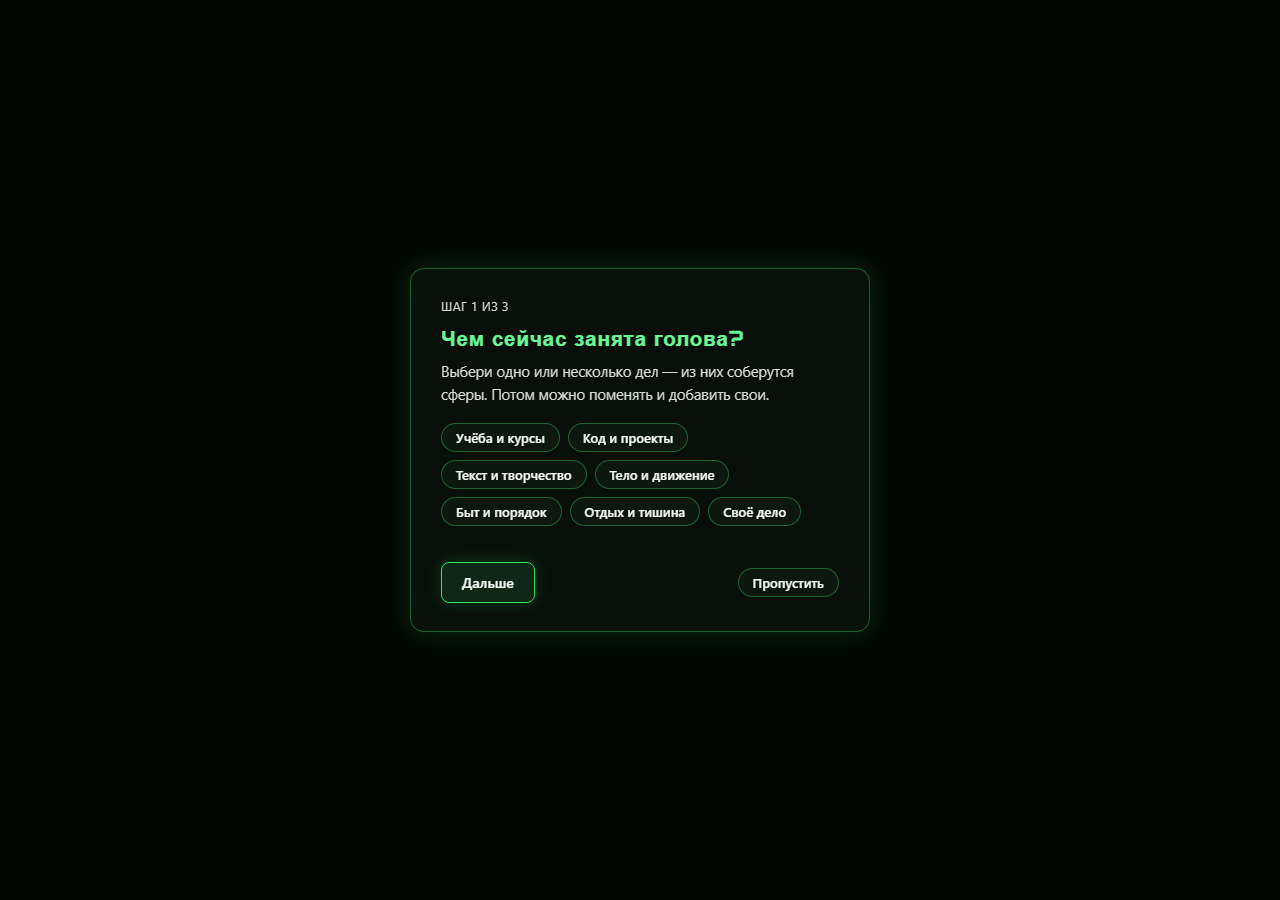
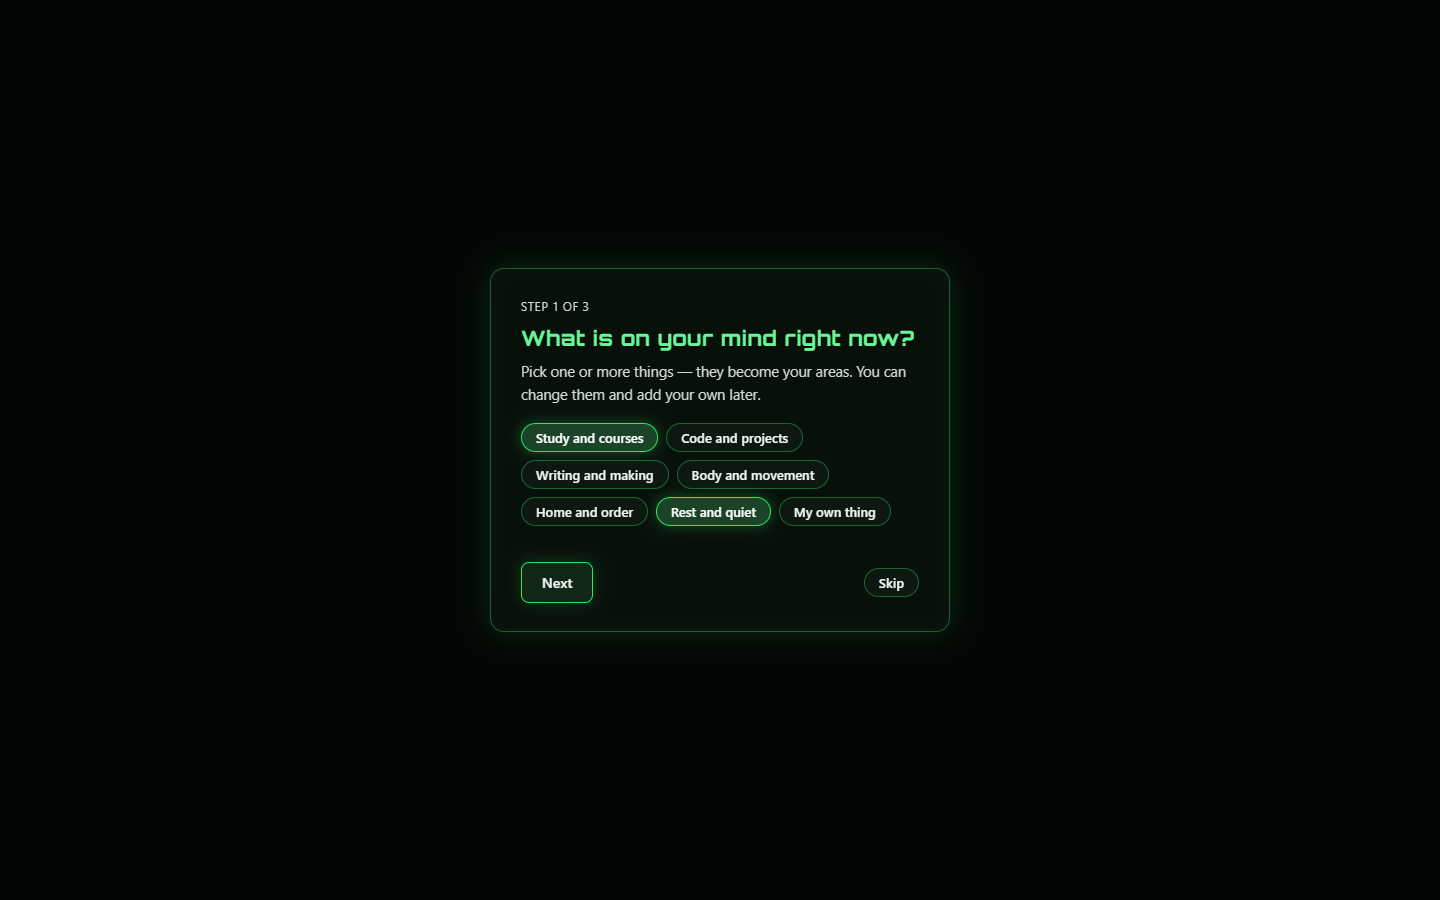
docs(flowcore): English screenshots, and the breathing screen among them
The shots were Russian and older than the breathing rework: they showed a screen that no longer exists and none of the ones that do. They are now taken on the demo profile in English — the default interface language — at 1440×900 on the desktop and 390×844 on the phone.

The new pair is the breathing screen itself: both techniques visible with the whisper of the selected one, the orb mid-cycle at 4:58, and the brown-noise switch lit with its volume. The README says plainly that the interface in the shots is English and why, so nobody reads it as the app being English-only.

Changed region(s): [[0.3438, 0.3111, 0.625, 0.5911], [0.5938, 0.6222, 0.6562, 0.6533], [0.3438, 0.6222, 0.4062, 0.6533]]

diff --git a/README.md b/README.md
@@ -38,15 +38,19 @@
 
 ## Скриншоты
 
-| Дневник | Система и безопасность |
+| Экран фокуса | Дневник и итоги недели |
 | --- | --- |
-| ![Дневник](screenshots/02-diary.png) | ![Система](screenshots/03-system.png) |
+| ![Экран фокуса](screenshots/01-focus.png) | ![Дневник](screenshots/02-diary.png) |
+
+| Дыхание: две методики и коричневый шум | Система и безопасность |
+| --- | --- |
+| ![Дыхание](screenshots/03-breathe.png) | ![Система](screenshots/03-system.png) |
 
 | Первый запуск | Телефон |
 | --- | --- |
 | ![Первый запуск](screenshots/04-onboarding.png) | ![Телефон](screenshots/mobile/01-focus.png) |
 
-Все скриншоты сняты на демонстрационном профиле — это не чьи-то настоящие записи.
+Интерфейс на снимках — английский: это язык по умолчанию, остальные три переключаются в «Системе». Все скриншоты сняты на демонстрационном профиле — это не чьи-то настоящие записи.
 
 ## Быстрый старт
 
